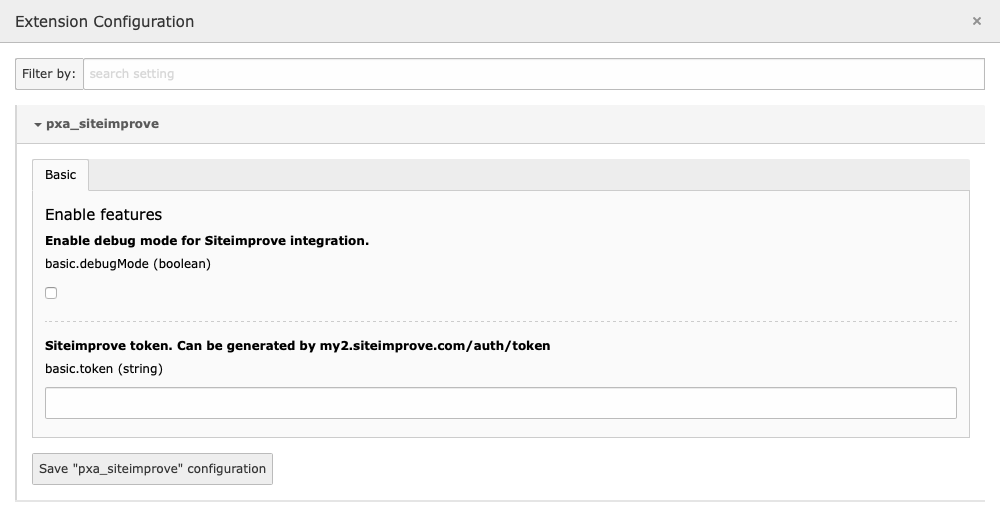
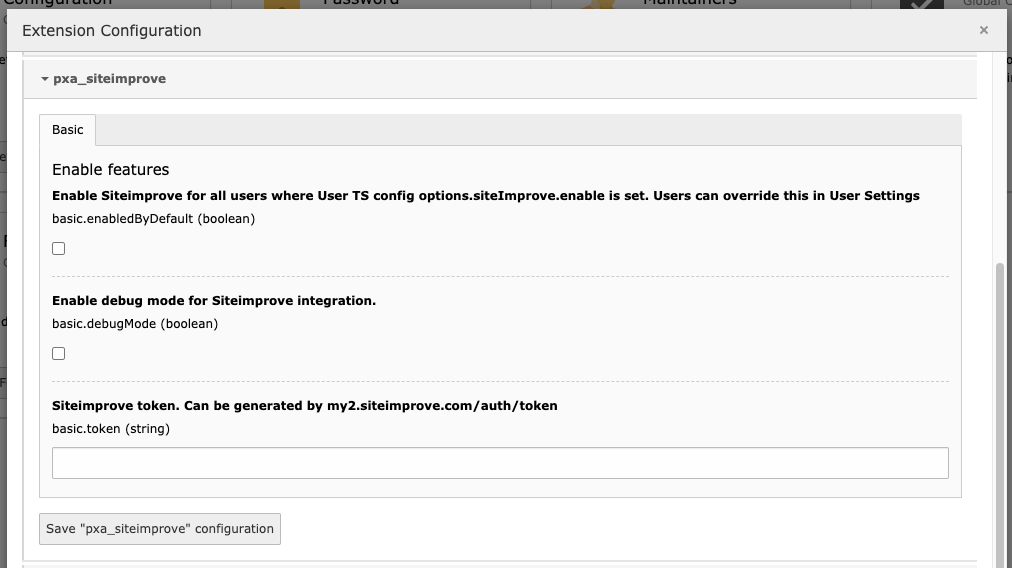
[FEATURE] Add possibility to enable Siteimprove by default for a user or usergroup (#27)

Changed region(s): [[0.0, 0.0, 1.0, 1.0]]

diff --git a/Classes/Utility/CompatibilityUtility.php b/Classes/Utility/CompatibilityUtility.php
@@ -141,13 +141,26 @@ class CompatibilityUtility
      */
     public static function isEnabledForBEUser()
     {
+        if (
+            isset($GLOBALS['TYPO3_CONF_VARS']['EXTENSIONS']['pxa_siteimprove']['enabledByDefault'])
+            && (bool)$GLOBALS['TYPO3_CONF_VARS']['EXTENSIONS']['pxa_siteimprove']['enabledByDefault']
+        ) {
+            if (self::typo3VersionIsLessThan('8')) {
+                return ((int)$GLOBALS['BE_USER']->uc['disable_siteimprove'] === 0
+                    && (bool)$GLOBALS['BE_USER']->getTSConfigVal('options.siteImprove.enable'));
+            }
+
+            return ((int)$GLOBALS['BE_USER']->uc['disable_siteimprove'] === 0
+                && (isset($GLOBALS['BE_USER']->getTSConfig()['options.']['siteImprove.']['enable'])
+                    && (bool)$GLOBALS['BE_USER']->getTSConfig()['options.']['siteImprove.']['enable']));
+        }
         if (self::typo3VersionIsLessThan('8')) {
             return ((int)$GLOBALS['BE_USER']->uc['use_siteimprove'] === 1
-                     && !$GLOBALS['BE_USER']->getTSConfigVal('options.siteImprove.disable'));
+                && !$GLOBALS['BE_USER']->getTSConfigVal('options.siteImprove.disable'));
         }
 
         return ((int)$GLOBALS['BE_USER']->uc['use_siteimprove'] === 1
-                && (!isset($GLOBALS['BE_USER']->getTSConfig()['options.']['siteImprove.']['disable'])
+            && (!isset($GLOBALS['BE_USER']->getTSConfig()['options.']['siteImprove.']['disable'])
                 || !$GLOBALS['BE_USER']->getTSConfig()['options.']['siteImprove.']['disable']));
     }
 

diff --git a/ext_tables.php b/ext_tables.php
@@ -5,17 +5,30 @@ if (!isset($_EXTKEY)) {
     $_EXTKEY = 'pxa_siteimprove';
 }
 
-// Add BE User setting
-$GLOBALS['TYPO3_USER_SETTINGS']['columns']['use_siteimprove'] = [
-    'label' => 'LLL:EXT:pxa_siteimprove/Resources/Private/Language/locallang.xlf:settings.field.use_siteimprove',
-   'type' => 'check',
-   'default' => 0
-];
+if (isset($GLOBALS['TYPO3_CONF_VARS']['EXTENSIONS']['pxa_siteimprove']['enabledByDefault']) && (bool)$GLOBALS['TYPO3_CONF_VARS']['EXTENSIONS']['pxa_siteimprove']['enabledByDefault']) {
+    $GLOBALS['TYPO3_USER_SETTINGS']['columns']['disable_siteimprove'] = [
+        'label' => 'LLL:EXT:pxa_siteimprove/Resources/Private/Language/locallang.xlf:settings.field.disable_siteimprove',
+        'type' => 'check',
+        'default' => 0
+    ];
 
-\TYPO3\CMS\Core\Utility\ExtensionManagementUtility::addFieldsToUserSettings(
-    'use_siteimprove',
-    'after:edit_RTE'
-);
+    \TYPO3\CMS\Core\Utility\ExtensionManagementUtility::addFieldsToUserSettings(
+        'disable_siteimprove',
+        'after:edit_RTE'
+    );
+} else {
+    $GLOBALS['TYPO3_USER_SETTINGS']['columns']['use_siteimprove'] = [
+        'label' => 'LLL:EXT:pxa_siteimprove/Resources/Private/Language/locallang.xlf:settings.field.use_siteimprove',
+        'type' => 'check',
+        'default' => 0
+    ];
+
+    \TYPO3\CMS\Core\Utility\ExtensionManagementUtility::addFieldsToUserSettings(
+        'use_siteimprove',
+        'after:edit_RTE'
+    );
+}
+
 call_user_func(
     function () {
         if (TYPO3_MODE === 'BE') {

diff --git a/Documentation/Configuration/Index.rst b/Documentation/Configuration/Index.rst
@@ -29,6 +29,16 @@ The following configuration options are available for the extension.
 
 .. rst-class:: dl-parameters
 
+Enable Siteimprove for all users with permissions
+   :sep:`|` :aspect:`Property name:` enabledByDefault
+   :sep:`|` :aspect:`Type:` boolean
+   :sep:`|` :aspect:`Default:` false
+
+   When this property is enabled, all users that have the User TSconfig setting
+   options.siteImprove.enable set to 1 or true will see the Siteimprove widget in
+   the page module. Users can disable Siteimprove for themselves by using the
+   setting Disable Siteimprove in the User Settings
+
 Enable debug mode for Siteimprove integration
    :sep:`|` :aspect:`Property name:` debugMode
    :sep:`|` :aspect:`Type:` boolean
@@ -75,6 +85,13 @@ Enable Siteimprove
 
    A checkbox to toggle Siteimprove on and off
 
+Disable Siteimprove
+   :sep:`|` :aspect:`Property name:` disable_siteimprove
+   :sep:`|` :aspect:`Type:` boolean
+   :sep:`|` :aspect:`Default:` false
+
+   A checkbox to disable Siteimprove although you have access to the feature
+
 .. _user-tsconfig-settings:
 
 User TSconfig settings
@@ -88,9 +105,20 @@ a whole user group through User TSconfig settings.
 
 .. rst-class:: dl-parameters
 
-siteImprove.disable
-   :sep:`|` :aspect:`Property name:` siteImprove.disable
+options.siteImprove.disable
+   :sep:`|` :aspect:`Property name:` options.siteImprove.disable
    :sep:`|` :aspect:`Type:` boolean
    :sep:`|` :aspect:`Default:` false
 
-   Toggle Siteimprove on and off for a single user or user group.
+   With this setting, you can disable Siteimprove although the editor itself
+   enabled it in the User Settings. This option only works when you have not
+   enabled Siteimprove by default.
+
+options.siteImprove.enable
+   :sep:`|` :aspect:`Property name:` options.siteImprove.enable
+   :sep:`|` :aspect:`Type:` boolean
+   :sep:`|` :aspect:`Default:` false
+
+   With this setting, you can enable Siteimprove unless the editor itself
+   disabled it in the User Settings. This option only works when you have
+   enabled Siteimprove by default.
